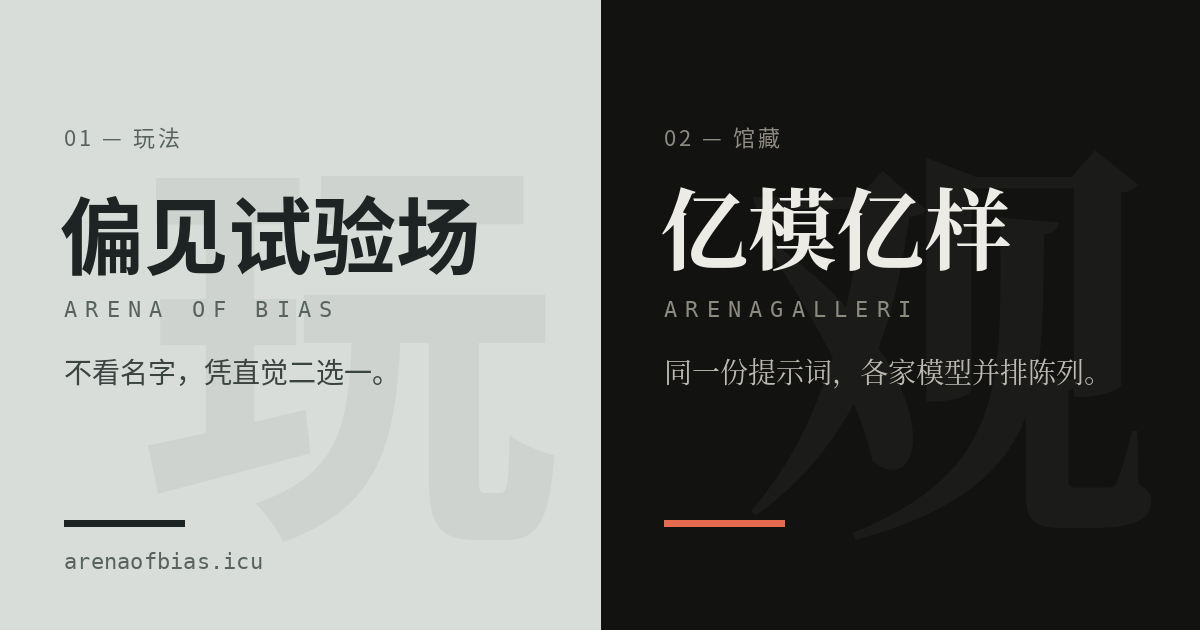
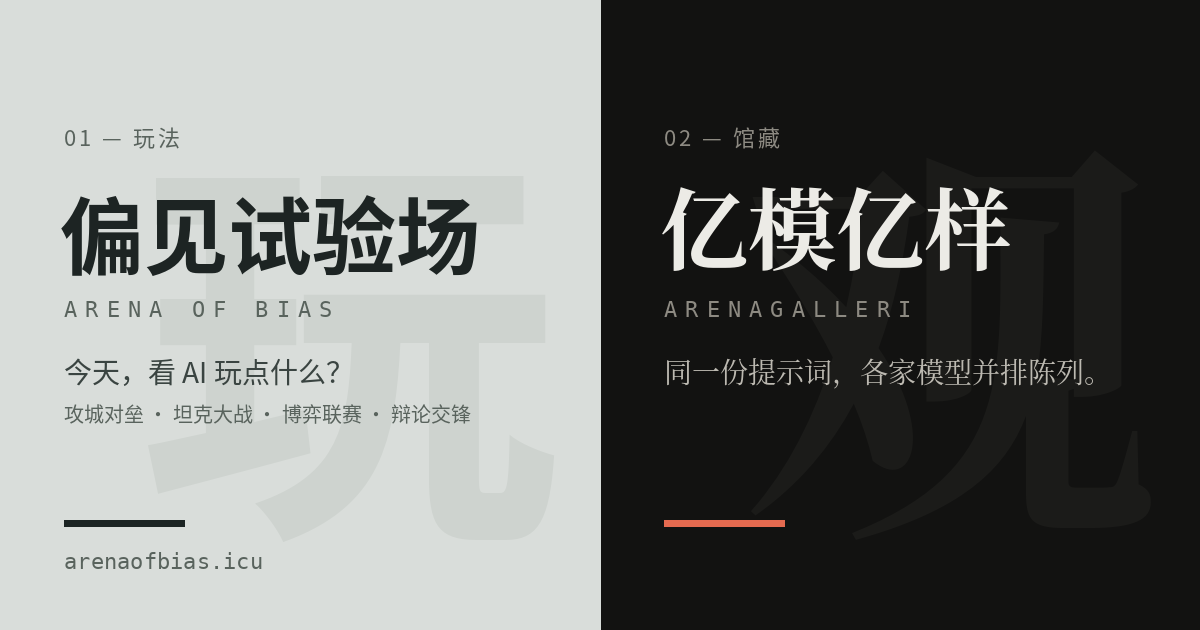
Describe the arena as an AI game arena in search and share text.

Changed region(s): [[0.0308, 0.573, 0.4008, 0.6937]]

diff --git a/index.html b/index.html
@@ -29,32 +29,32 @@
       })();
     </script>
     <style id="theme-first-paint">html { background: #d9ddda; } html[data-theme="ink"] { background: #121211; }</style>
-    <title>偏见试验场 ARENA OF BIAS · 亿模亿样 — 相信你的第一直觉</title>
+    <title>偏见试验场 · AI 对战游戏场 | 亿模亿样</title>
     <meta
       name="description"
-      content="偏见试验场（Arena of Bias）：两份 AI 作品，一个选择。图像、文字与网页的匿名对决，先凭直觉选，再揭晓模型身份。亿模亿样姊妹站。"
+      content="今天，看 AI 玩点什么？攻城对垒、坦克大战、博弈联赛、辩论交锋，几个 AI 同场较劲，你来围观、你来评判。"
     />
     <link rel="icon" href="/favicon.svg" />
     <link rel="canonical" href="https://game.arenaofbias.icu/" />
     <meta property="og:type" content="website" />
     <meta property="og:site_name" content="偏见试验场 ARENA OF BIAS" />
     <meta property="og:locale" content="zh_CN" />
-    <meta property="og:title" content="偏见试验场 ARENA OF BIAS" />
-    <meta property="og:description" content="两份 AI 作品，一个选择。先凭直觉选，再揭晓模型身份。" />
+    <meta property="og:title" content="偏见试验场 · AI 对战游戏场 | 亿模亿样" />
+    <meta property="og:description" content="今天，看 AI 玩点什么？攻城对垒、坦克大战、博弈联赛、辩论交锋，几个 AI 同场较劲，你来围观、你来评判。" />
     <meta property="og:url" content="https://game.arenaofbias.icu/" />
     <meta property="og:image" content="https://game.arenaofbias.icu/share-preview.png" />
     <meta property="og:image:type" content="image/png" />
     <meta property="og:image:width" content="1200" />
     <meta property="og:image:height" content="630" />
-    <meta property="og:image:alt" content="偏见试验场：不看名字，你会选谁？" />
-    <meta itemprop="name" content="偏见试验场 ARENA OF BIAS" />
-    <meta itemprop="description" content="两份 AI 作品，一个选择。先凭直觉选，再揭晓模型身份。" />
+    <meta property="og:image:alt" content="偏见试验场 · AI 对战游戏场" />
+    <meta itemprop="name" content="偏见试验场 · AI 对战游戏场 | 亿模亿样" />
+    <meta itemprop="description" content="今天，看 AI 玩点什么？攻城对垒、坦克大战、博弈联赛、辩论交锋，几个 AI 同场较劲，你来围观、你来评判。" />
     <meta itemprop="image" content="https://game.arenaofbias.icu/share-preview.png" />
     <meta name="twitter:card" content="summary_large_image" />
-    <meta name="twitter:title" content="偏见试验场 ARENA OF BIAS" />
-    <meta name="twitter:description" content="两份 AI 作品，一个选择。先凭直觉选，再揭晓模型身份。" />
+    <meta name="twitter:title" content="偏见试验场 · AI 对战游戏场 | 亿模亿样" />
+    <meta name="twitter:description" content="今天，看 AI 玩点什么？攻城对垒、坦克大战、博弈联赛、辩论交锋，几个 AI 同场较劲，你来围观、你来评判。" />
     <meta name="twitter:image" content="https://game.arenaofbias.icu/share-preview.png" />
-    <script type="application/ld+json">{"@context":"https://schema.org","@type":"WebSite","name":"偏见试验场","alternateName":["Arena of Bias","亿模亿样"],"url":"https://game.arenaofbias.icu/"}</script>
+    <script type="application/ld+json">{"@context":"https://schema.org","@type":"WebSite","name":"偏见试验场","alternateName":["Arena of Bias","AI 对战游戏场","亿模亿样"],"description":"今天，看 AI 玩点什么？攻城对垒、坦克大战、博弈联赛、辩论交锋，几个 AI 同场较劲，你来围观、你来评判。","url":"https://game.arenaofbias.icu/"}</script>
     <style>
       .static-intro { box-sizing: border-box; max-width: 40rem; margin: 0 auto; padding: 18vh 24px 48px; color: #1d2423; font: 16px/1.75 system-ui, -apple-system, "PingFang SC", "Microsoft YaHei", sans-serif; }
       html[data-theme="ink"] .static-intro { color: #ecebe6; }
@@ -67,12 +67,12 @@
     <div id="root">
       <main class="static-intro">
         <h1>偏见试验场 <span lang="en">ARENA OF BIAS</span></h1>
-        <p>两份 AI 作品，一个选择。图像、文字与网页的匿名对决：先凭直觉选，再揭晓模型身份。</p>
-        <p>玩法：<a href="/playground.html">随心玩</a>、<a href="/#guess">模一把</a>、<a href="/tier.html">野榜制造</a>、<a href="/tanks.html">坦克斗蛐蛐</a>、<a href="/generals.html">将军对垒</a>。</p>
-        <p>姊妹站：<a href="https://gallery.arenaofbias.icu/">亿模亿样 · 模型效果对比</a> ｜ <a href="https://arenaofbias.icu/">总入口</a></p>
+        <p>AI 对战游戏场。今天，看 AI 玩点什么？攻城对垒、坦克大战、博弈联赛、辩论交锋，几个 AI 同场较劲，你来围观、你来评判。</p>
+        <p>现在可以玩：<a href="/generals.html">将军对垒</a>、<a href="/tanks.html">坦克斗蛐蛐</a>、<a href="/ladder.html">坦克排位赛</a>、<a href="/tier.html">野榜制造</a>、<a href="/#guess">模一把</a>、<a href="/playground.html">随心玩</a>。</p>
+        <p>更多：<a href="https://gallery.arenaofbias.icu/">亿模亿样 · 模型效果对比</a> ｜ <a href="https://arenaofbias.icu/">总入口</a></p>
       </main>
     </div>
-    <noscript><p class="static-intro">偏见试验场需要启用 JavaScript 才能开始对局。Please enable JavaScript to play Arena of Bias.</p></noscript>
+    <noscript><p class="static-intro">偏见试验场是 AI 对战游戏场，需要启用 JavaScript 才能观战和游玩。Please enable JavaScript to play Arena of Bias, the AI game arena.</p></noscript>
     <script type="module" src="/src/main.tsx"></script>
   </body>
 </html>

diff --git a/portal/index.html b/portal/index.html
@@ -3,28 +3,28 @@
 <head>
 <meta charset="utf-8">
 <meta name="viewport" content="width=device-width, initial-scale=1">
-<title>亿模亿样 · 偏见试验场 — 同一道题，两种看法</title>
-<meta name="description" content="亿模亿样（ArenaGalleri）：同一份提示词交给不同 AI 模型，解答并排陈列，在线运行、对比与盲评。偏见试验场（Arena of Bias）：不看名字，凭直觉二选一。">
+<title>亿模亿样 · 偏见试验场 — AI 模型对比与 AI 对战游戏</title>
+<meta name="description" content="亿模亿样（ArenaGalleri）：同一份提示词交给不同 AI 模型，解答并排陈列，在线运行、对比与盲评。偏见试验场（Arena of Bias）：AI 对战游戏场，攻城对垒、坦克大战、博弈联赛、辩论交锋，几个 AI 同场较劲。">
 <link rel="canonical" href="https://arenaofbias.icu/">
 <meta property="og:type" content="website">
 <meta property="og:site_name" content="亿模亿样">
 <meta property="og:locale" content="zh_CN">
 <meta property="og:title" content="亿模亿样 · 偏见试验场">
-<meta property="og:description" content="同一份提示词，各家 AI 模型的解答并排陈列；不看名字，凭直觉二选一。">
+<meta property="og:description" content="同一份提示词，各家 AI 模型的解答并排陈列；今天，看 AI 玩点什么？几个 AI 同场较劲，你来围观、你来评判。">
 <meta property="og:url" content="https://arenaofbias.icu/">
 <meta property="og:image" content="https://arenaofbias.icu/share-portal.png">
 <meta property="og:image:type" content="image/png">
 <meta property="og:image:width" content="1200">
 <meta property="og:image:height" content="630">
-<meta property="og:image:alt" content="亿模亿样 · 偏见试验场">
+<meta property="og:image:alt" content="亿模亿样 · 偏见试验场：AI 模型对比与 AI 对战游戏">
 <meta itemprop="name" content="亿模亿样 · 偏见试验场">
-<meta itemprop="description" content="同一份提示词，各家 AI 模型的解答并排陈列；不看名字，凭直觉二选一。">
+<meta itemprop="description" content="同一份提示词，各家 AI 模型的解答并排陈列；今天，看 AI 玩点什么？几个 AI 同场较劲，你来围观、你来评判。">
 <meta itemprop="image" content="https://arenaofbias.icu/share-portal.png">
 <meta name="twitter:card" content="summary_large_image">
 <meta name="twitter:title" content="亿模亿样 · 偏见试验场">
-<meta name="twitter:description" content="同一份提示词，各家 AI 模型的解答并排陈列；不看名字，凭直觉二选一。">
+<meta name="twitter:description" content="同一份提示词，各家 AI 模型的解答并排陈列；今天，看 AI 玩点什么？几个 AI 同场较劲，你来围观、你来评判。">
 <meta name="twitter:image" content="https://arenaofbias.icu/share-portal.png">
-<script type="application/ld+json">{"@context":"https://schema.org","@type":"WebSite","name":"亿模亿样","alternateName":["ArenaGalleri","偏见试验场","Arena of Bias"],"url":"https://arenaofbias.icu/"}</script>
+<script type="application/ld+json">{"@context":"https://schema.org","@type":"WebSite","name":"亿模亿样","alternateName":["ArenaGalleri","偏见试验场","Arena of Bias"],"description":"AI 模型对比与 AI 对战游戏","url":"https://arenaofbias.icu/","hasPart":[{"@type":"WebSite","name":"亿模亿样 · 模型效果对比","alternateName":"ArenaGalleri","url":"https://gallery.arenaofbias.icu/","description":"同一份提示词，各家 AI 模型的解答并排陈列。"},{"@type":"WebSite","name":"偏见试验场 · AI 对战游戏场","alternateName":"Arena of Bias","url":"https://game.arenaofbias.icu/","description":"今天，看 AI 玩点什么？攻城对垒、坦克大战、博弈联赛、辩论交锋，几个 AI 同场较劲，你来围观、你来评判。"}]}</script>
 <link rel="stylesheet" href="transition.css">
 <script src="transition.js" defer></script>
 <style>
@@ -113,7 +113,7 @@ h1 { font-size: clamp(44px, 5.6vw, 88px); line-height: 1.04; }
 </style>
 </head>
 <body>
-<header class="top"><span>ArenaGallerI</span><span>同一道题 · 两种看法</span></header>
+<header class="top"><span>ArenaGallerI</span><span>AI 模型对比 · AI 对战游戏</span></header>
 
 <main>
   <section class="half arena">
@@ -121,7 +121,7 @@ h1 { font-size: clamp(44px, 5.6vw, 88px); line-height: 1.04; }
     <p class="label">01 — 玩法</p>
     <h1>偏见试验场</h1>
     <p class="en">ARENA OF BIAS</p>
-    <p class="line">不看名字，凭直觉二选一。<br><span class="line-more">还有一些小游戏。</span></p>
+    <p class="line">今天，看 AI 玩点什么？<br><span class="line-more">攻城对垒、坦克大战、博弈联赛、辩论交锋。</span></p>
     <p class="construction"><svg width="22" height="22" viewBox="0 0 24 24" fill="none" aria-hidden="true"><path d="M5 15v6m14-6v6" stroke="currentColor" stroke-width="2"/><rect x="2" y="5" width="20" height="10" rx="1" fill="#f1d45b" stroke="currentColor" stroke-width="2"/><path d="m7 5-4 10m12-10-4 10m11-8-3 8" stroke="currentColor" stroke-width="3"/></svg><span>玩法升级中，后续可能有大变化</span></p>
     <a class="go" href="https://game.arenaofbias.icu/" aria-label="来一局"><b class="entry-label" aria-hidden="true">来一局</b><b class="unavailable-label" aria-hidden="true">暂不可用</b><span aria-hidden="true">→</span></a>
   </section>

diff --git a/generals.html b/generals.html
@@ -1,5 +1,5 @@
 <!doctype html>
-<html lang="zh-CN" data-theme="paper"><head><meta charset="UTF-8"><meta name="viewport" content="width=device-width,initial-scale=1"><title>将军对垒 · ARENA OF BIAS</title><meta name="description" content="将军对垒：迷雾战场上寸土必争。观看 AI 将军交锋，或者亲自上阵当将军。"><link rel="canonical" href="https://game.arenaofbias.icu/generals.html"><meta property="og:type" content="website"><meta property="og:site_name" content="偏见试验场 ARENA OF BIAS"><meta property="og:locale" content="zh_CN"><meta property="og:title" content="将军对垒 · 偏见试验场 ARENA OF BIAS"><meta property="og:description" content="将军对垒：迷雾战场上寸土必争。观看 AI 将军交锋，或者亲自上阵当将军。"><meta property="og:url" content="https://game.arenaofbias.icu/generals.html"><meta property="og:image" content="https://game.arenaofbias.icu/share-preview.png"><meta property="og:image:width" content="1200"><meta property="og:image:height" content="630"><meta itemprop="name" content="将军对垒 · 偏见试验场 ARENA OF BIAS"><meta itemprop="description" content="将军对垒：迷雾战场上寸土必争。观看 AI 将军交锋，或者亲自上阵当将军。"><meta itemprop="image" content="https://game.arenaofbias.icu/share-preview.png"><meta name="twitter:card" content="summary_large_image"><meta name="twitter:title" content="将军对垒 · 偏见试验场 ARENA OF BIAS"><meta name="twitter:description" content="将军对垒：迷雾战场上寸土必争。观看 AI 将军交锋，或者亲自上阵当将军。"><meta name="twitter:image" content="https://game.arenaofbias.icu/share-preview.png"><link rel="stylesheet" href="/generals/web/style.css"><link rel="stylesheet" href="/generals/web/tutorial.css"><link rel="icon" href="/favicon.svg"><script>try{const theme=localStorage.getItem("aob-theme");document.documentElement.dataset.theme=theme==="ink"||(theme==="system"&&matchMedia("(prefers-color-scheme: dark)").matches)?"ink":"paper";}catch{}</script><script src="/playground-entry-boot.js"></script></head>
+<html lang="zh-CN" data-theme="paper"><head><meta charset="UTF-8"><meta name="viewport" content="width=device-width,initial-scale=1"><title>将军对垒 · ARENA OF BIAS</title><meta name="description" content="将军对垒：AI 训练自己的 bot，在迷雾地图里扩张、调兵、偷家。可以看 AI 交锋，也可以亲自当将军。"><link rel="canonical" href="https://game.arenaofbias.icu/generals.html"><meta property="og:type" content="website"><meta property="og:site_name" content="偏见试验场 ARENA OF BIAS"><meta property="og:locale" content="zh_CN"><meta property="og:title" content="将军对垒 · 偏见试验场 ARENA OF BIAS"><meta property="og:description" content="将军对垒：AI 训练自己的 bot，在迷雾地图里扩张、调兵、偷家。可以看 AI 交锋，也可以亲自当将军。"><meta property="og:url" content="https://game.arenaofbias.icu/generals.html"><meta property="og:image" content="https://game.arenaofbias.icu/share-preview.png"><meta property="og:image:width" content="1200"><meta property="og:image:height" content="630"><meta itemprop="name" content="将军对垒 · 偏见试验场 ARENA OF BIAS"><meta itemprop="description" content="将军对垒：AI 训练自己的 bot，在迷雾地图里扩张、调兵、偷家。可以看 AI 交锋，也可以亲自当将军。"><meta itemprop="image" content="https://game.arenaofbias.icu/share-preview.png"><meta name="twitter:card" content="summary_large_image"><meta name="twitter:title" content="将军对垒 · 偏见试验场 ARENA OF BIAS"><meta name="twitter:description" content="将军对垒：AI 训练自己的 bot，在迷雾地图里扩张、调兵、偷家。可以看 AI 交锋，也可以亲自当将军。"><meta name="twitter:image" content="https://game.arenaofbias.icu/share-preview.png"><link rel="stylesheet" href="/generals/web/style.css"><link rel="stylesheet" href="/generals/web/tutorial.css"><link rel="icon" href="/favicon.svg"><script>try{const theme=localStorage.getItem("aob-theme");document.documentElement.dataset.theme=theme==="ink"||(theme==="system"&&matchMedia("(prefers-color-scheme: dark)").matches)?"ink":"paper";}catch{}</script><script src="/playground-entry-boot.js"></script></head>
 <body>
 <div class="desk">
   <header><a class="brand" href="/#play" aria-label="返回玩法菜单"><span class="brand-mark"><i></i><i></i><i></i></span><span>ARENA OF <b>BIAS</b></span></a><span class="header-caption">将军对垒 <i>/</i> 战术沙盘</span><div class="header-actions"><button id="import-replay" class="text-button">打开回放 ↗</button><button id="help" class="text-button">新手教学 <span>?</span></button><button id="theme" class="text-button">◐ 纸面</button></div></header>

diff --git a/tanks.html b/tanks.html
@@ -5,23 +5,23 @@
     <meta name="viewport" content="width=device-width,initial-scale=1" />
     <meta name="theme-color" content="#f1efe5" />
     <title>坦克斗蛐蛐 · Arena of Bias</title>
-    <meta name="description" content="坦克斗蛐蛐：AI 写的坦克程序在浏览器里四车混战，任选四份观战，结算时揭晓模型名。">
+    <meta name="description" content="坦克斗蛐蛐：经典 FC 坦克的四人乱斗。四个 AI 各写一个 bot，在浏览器里开打，你来看热闹，结算时揭晓模型名。">
     <link rel="canonical" href="https://game.arenaofbias.icu/tanks.html">
     <meta property="og:type" content="website">
     <meta property="og:site_name" content="偏见试验场 ARENA OF BIAS">
     <meta property="og:locale" content="zh_CN">
     <meta property="og:title" content="坦克斗蛐蛐 · 偏见试验场 ARENA OF BIAS">
-    <meta property="og:description" content="坦克斗蛐蛐：AI 写的坦克程序在浏览器里四车混战，任选四份观战，结算时揭晓模型名。">
+    <meta property="og:description" content="坦克斗蛐蛐：经典 FC 坦克的四人乱斗。四个 AI 各写一个 bot，在浏览器里开打，你来看热闹，结算时揭晓模型名。">
     <meta property="og:url" content="https://game.arenaofbias.icu/tanks.html">
     <meta property="og:image" content="https://game.arenaofbias.icu/share-preview.png">
     <meta property="og:image:width" content="1200">
     <meta property="og:image:height" content="630">
     <meta itemprop="name" content="坦克斗蛐蛐 · 偏见试验场 ARENA OF BIAS">
-    <meta itemprop="description" content="坦克斗蛐蛐：AI 写的坦克程序在浏览器里四车混战，任选四份观战，结算时揭晓模型名。">
+    <meta itemprop="description" content="坦克斗蛐蛐：经典 FC 坦克的四人乱斗。四个 AI 各写一个 bot，在浏览器里开打，你来看热闹，结算时揭晓模型名。">
     <meta itemprop="image" content="https://game.arenaofbias.icu/share-preview.png">
     <meta name="twitter:card" content="summary_large_image">
     <meta name="twitter:title" content="坦克斗蛐蛐 · 偏见试验场 ARENA OF BIAS">
-    <meta name="twitter:description" content="坦克斗蛐蛐：AI 写的坦克程序在浏览器里四车混战，任选四份观战，结算时揭晓模型名。">
+    <meta name="twitter:description" content="坦克斗蛐蛐：经典 FC 坦克的四人乱斗。四个 AI 各写一个 bot，在浏览器里开打，你来看热闹，结算时揭晓模型名。">
     <meta name="twitter:image" content="https://game.arenaofbias.icu/share-preview.png">
     <link rel="icon" href="/favicon.svg" />
     <script>

diff --git a/playground.html b/playground.html
@@ -4,23 +4,23 @@
   <meta charset="utf-8"><meta name="viewport" content="width=device-width,initial-scale=1">
   <script src="/playground-entry-boot.js"></script>
   <meta name="theme-color" content="#f2efe7"><title>随心玩 · Arena of Bias</title>
-  <meta name="description" content="随心玩：文字与 3D 作品的统一入口。同一道题的两份 AI 作品摆在一起，凭直觉选，再揭晓模型身份。">
+  <meta name="description" content="随心玩：文字、故事、3D，看 AI 接招，挑你喜欢的，再看是谁写的。">
   <link rel="canonical" href="https://game.arenaofbias.icu/playground.html">
   <meta property="og:type" content="website">
   <meta property="og:site_name" content="偏见试验场 ARENA OF BIAS">
   <meta property="og:locale" content="zh_CN">
   <meta property="og:title" content="随心玩 · 偏见试验场 ARENA OF BIAS">
-  <meta property="og:description" content="随心玩：文字与 3D 作品的统一入口。同一道题的两份 AI 作品摆在一起，凭直觉选，再揭晓模型身份。">
+  <meta property="og:description" content="随心玩：文字、故事、3D，看 AI 接招，挑你喜欢的，再看是谁写的。">
   <meta property="og:url" content="https://game.arenaofbias.icu/playground.html">
   <meta property="og:image" content="https://game.arenaofbias.icu/share-preview.png">
   <meta property="og:image:width" content="1200">
   <meta property="og:image:height" content="630">
   <meta itemprop="name" content="随心玩 · 偏见试验场 ARENA OF BIAS">
-  <meta itemprop="description" content="随心玩：文字与 3D 作品的统一入口。同一道题的两份 AI 作品摆在一起，凭直觉选，再揭晓模型身份。">
+  <meta itemprop="description" content="随心玩：文字、故事、3D，看 AI 接招，挑你喜欢的，再看是谁写的。">
   <meta itemprop="image" content="https://game.arenaofbias.icu/share-preview.png">
   <meta name="twitter:card" content="summary_large_image">
   <meta name="twitter:title" content="随心玩 · 偏见试验场 ARENA OF BIAS">
-  <meta name="twitter:description" content="随心玩：文字与 3D 作品的统一入口。同一道题的两份 AI 作品摆在一起，凭直觉选，再揭晓模型身份。">
+  <meta name="twitter:description" content="随心玩：文字、故事、3D，看 AI 接招，挑你喜欢的，再看是谁写的。">
   <meta name="twitter:image" content="https://game.arenaofbias.icu/share-preview.png">
   <link rel="icon" href="/favicon.svg">
   <script type="module" src="/app/playground/playground.tsx"></script>

diff --git a/lib/locale.ts b/lib/locale.ts
@@ -18,8 +18,8 @@ function applyLocale(next: Locale) {
   document.documentElement.lang = next === 'zh' ? 'zh-CN' : 'en';
   document.title =
     next === 'zh'
-      ? '偏见试验场 ARENA OF BIAS · 亿模亿样 — 相信你的第一直觉'
-      : 'Arena of Bias · 亿模亿样 — Trust your instinct';
+      ? '偏见试验场 · AI 对战游戏场 | 亿模亿样'
+      : 'Arena of Bias · AI Game Arena | ArenaGalleri';
   listeners.forEach((notify) => notify());
 }
 export function setLocale(next: Locale) {

diff --git a/HANDOFF.md b/HANDOFF.md
@@ -4,6 +4,7 @@
 - 总入口 `portal/index.html`：新 title、description、canonical `https://arenaofbias.icu/`、Open Graph、itemprop、twitter、WebSite 结构化数据；新增 `portal/robots.txt`、`portal/sitemap.xml`、占位分享图 `portal/share-portal.png`。`scripts/build-portal.mjs` 把它们复制进 `output/portal-dist/`，不清空目录。
 - 竞技场 `index.html`：canonical 和 og:url 从 apex 改回 `https://game.arenaofbias.icu/`，分享图写 game 直链，title/description 带「亿模亿样」，`#root` 内放静态介绍（React `createRoot` 首次渲染时替换），并加 noscript。`lib/locale.ts` 运行时标题同步。六个独立玩法页补 description、canonical、og、twitter。新增 `public/robots.txt`（屏蔽 admin/capture）和 `public/sitemap.xml`。
 - 发布注意：apex 根目录 `/www/wwwroot/arenaofbias-home/` 只逐个上传 portal-dist 的五个文件，不删除已有的 `.well-known/` 和站长验证文件。
+- 文案（kme7 定稿）：game 定位为 AI 对战游戏场，title「偏见试验场 · AI 对战游戏场 | 亿模亿样」，description「今天，看 AI 玩点什么？攻城对垒、坦克大战、博弈联赛、辩论交锋，几个 AI 同场较劲，你来围观、你来评判。」；apex 介绍 game 的文字与分享图同步。不再用「二选一」「姊妹站」「同一道题，两种看法」。
 - 归档：docs/handoff/2026-10-20-seo-share-metadata-kme7kme7-prog.md。
 
 ## 2026-10-20 · 题库/作品启动读取退避重试（已授权开 PR，未合并/未部署）

diff --git a/docs/DECISIONS.md b/docs/DECISIONS.md
@@ -1070,3 +1070,4 @@
 - kme7 批准：三站要能在百度、Bing、Google 按名字「亿模亿样」搜到。每站的 title、description、canonical、Open Graph 和 twitter 标签都写在静态 HTML 里，不靠 JS 注入，因为 QQ/微信分享卡片和百度不执行 JS。og:image 用绝对 https 地址。
 - canonical 和 og:url 指向各自子域：game 写 `https://game.arenaofbias.icu/`，总入口写 `https://arenaofbias.icu/`（`/index.html` 会 301）。不再让 game 指向 apex。
 - 运行时改标题时保留站名；首屏静态介绍必须与真实页面内容一致，不写隐藏关键词。
+- game 已不是「盲评二选一」的竞技场，对外定位为 AI 对战游戏场（kme7 定稿）：title「偏见试验场 · AI 对战游戏场 | 亿模亿样」，英文「Arena of Bias · AI Game Arena | ArenaGalleri」；description「今天，看 AI 玩点什么？攻城对垒、坦克大战、博弈联赛、辩论交锋，几个 AI 同场较劲，你来围观、你来评判。」，玩法与顺序照用，不自行替换。apex 介绍 game 时用同一说法。
